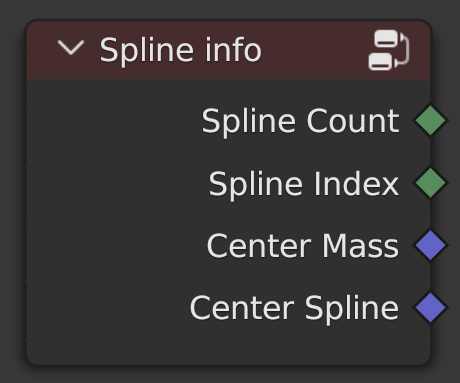
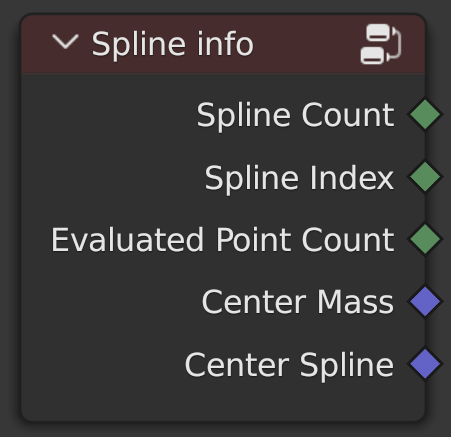
more fillin for curve-generatoe nodes

diff --git a/my-website/docs/curve/generator/loft-curves.md b/my-website/docs/curve/generator/loft-curves.md
@@ -1,19 +1,164 @@
 ---
 sidebar_position: 4
 title: Loft Curves
-description: This node generates a mesh structure across curves; "lofting" a mesh grid across curves.
+description: This node generates a mesh grid structure across curves; "lofting" a mesh grid across curves.
 tags:
   - Cuve
   - Generator
 ---
+
+import Tabs from '@theme/Tabs';
+import TabItem from '@theme/TabItem';
+
 <!-- Node Image -->
 <div>
 <img  width="30%" src="/img/docs/loft_curves.png" alt="Smiley face" className="floatme"/>
 
  ### Loft Curves  
-This node generates a mesh structure across curves; "lofting" a mesh across curves.
+This node generates a mesh grid structure across curves; "lofting" a mesh across curves.
   
 <!-- Blank Space after imge+description -->
 <img  width="100%" height="0%" src="/img/blank.png" alt="blank"/>  
+</div>
+
+# Inputs
+<div class="md-indent">
+
+## Curve
+<div class="md-indent">
+
+_**Type -** Geometry-Curve_.  
+
+</div>
+
+## X Resolution
+<div class="md-indent">
+
+<Tabs  groupId="fast-slow">
+<TabItem value="fast" label="Fast">
+
+_**Type -** Integer, **Domain -** Static_.  
+.
+</TabItem>
+<TabItem value="slow" label="Slow">
+
+_**Type -** Integer, **Domain -** [Group Index](#group-index)_.  
+.
+</TabItem>  
+</Tabs>
+  
+
+</div>
+
+## Y Resolution
+<div class="md-indent">
+<Tabs groupId="fast-slow">
+<TabItem value="fast" label="Fast">
+
+_**Type -** Integer, **Domain -** Static_.  
+.
+
+
+</TabItem>
+<TabItem value="slow" label="Slow">
+
+_**Type -** Integer, **Domain -** [Group Index](#group-index)_.  
+.
+
+</TabItem>
+</Tabs>
+</div>
+
+## X: Stick to Curve
+<div class="md-indent">
+
+_**Type -** Boolean, **Domain -** Spline_.  
+.
+
+</div>
+
+## Y: Stick to Curve
+<div class="md-indent">
+
+_**Type -** Boolean, **Domain -** **(fix?)** Point_.  
+.
+
+</div>
+
+## X: Factor
+<div class="md-indent">
+
+_**Type -** Float, **Domain -** Point_.  
+.
+
+</div>
+
+## Y: Factor
+<div class="md-indent">
+
+_**Type -** Float, **Domain -** Point_.  
+.
+
+</div>
+
+
+## Spline Order Weight
+<div class="md-indent">
+
+_**Type -** Float, **Domain -** Spline_.  
+.
+
+</div>
+
+## Offset Start Point
+<div class="md-indent">
+
+_**Type -** Integer, **Domain -** Spline_.  
+.
+
+</div>
+
+## Slide
+<div class="md-indent">
+
+_**Type -** Float, **Domain -** Spline_.  
+.
+
+</div>
+
+
+## Group Index
+<div class="md-indent">
+
+ _**Type -** Integer, **Domain -** Spline_.  
+. 
+
+</div>
+
+
+## Interpolation:
+<div class="md-indent">
+
+ _**Type -** Integer, **Domain -** **(fix)** Spline_.  
+
+ 0. 
+ 1. 
+ 2. 
+ 3. 
+
+</div>
+</div>
+
+# Outputs
+<div class="md-indent">
+
+## Mesh
+<div class="md-indent">
+
+_**Type -** Geometry-Mesh_.  
+
+> indices 
+
+</div>
 </div>
 

diff --git a/my-website/docs/curve/utilities/spline-coordinates.md b/my-website/docs/curve/utilities/spline-coordinates.md
@@ -23,29 +23,34 @@ This node gives the local Coordinates from your geometry to the inputted spline 
 ## Curve
 <div class="md-indent">
 
-_**Type -** Geometry-Curve_.
+_**Type -** Geometry-Curve_.  
+The curve (/ splines) that you're sampling the [outputs](#outputs) from.
 </div>
 </div>
 
-# outputs
+# Outputs
 <div class="md-indent">
 
 ## Spline Coordinates
 <div class="md-indent">
 
-_**Type -** Vector, **Domain -** Point_.
+_**Type -** Vector, **Domain -** Point_.  
+The local [object] coordinates relative to the [curve](#curve) as if the startpoint is (0,0,0) and conforms to the curve (along the Tangent is Z, along the Normal is X, and along Normal-Tangent is Y). For example if a point is 1 m away from the [curve](#curve) along the normal it will have an X of 1, if it is 1 m along the [curve](#curve) (it has a length of 1) it will have a Z of 1 etc.
+
 </div>
 
 ## Radius
 <div class="md-indent">
 
-_**Type -** Float, **Domain -** Point_.
+_**Type -** Float, **Domain -** Point_.  
+The radius of the points on the [curve](#curve) closest to points of whatever the output is plugged into.
 </div>
 
 ## Spline Index
 <div class="md-indent">
 
-_**Type -** Integer, **Domain -** Point_.
+_**Type -** Integer, **Domain -** Point_.  
+The spline index of the points on the [curve](#curve) closest to points of whatever the output is plugged into.
 </div>
 
 </div>

diff --git a/my-website/docs/curve/generator/curve-to-mesh-+.md b/my-website/docs/curve/generator/curve-to-mesh-+.md
@@ -65,7 +65,8 @@ Fills / adds caps to the ends of the non-cyclic generated mesh's opened ends ([s
 
 _**Type -** Geometry-Mesh_.  
 Outputs the Generated geometry.
-> Indices will be new because there is more geometry, but they will be ordered. `Y * length(X) + X = Index.` when [spline parameter - index](https://docs.blender.org/manual/en/latest/modeling/geometry_nodes/curve/spline_parameter.html#:~:text=of%20the%20spline.-,Index,%2C%20which%20also%20counts%20the%20control%20points%20in%20all%20previous%20splines.,-Examples) of [curve](#curve) is Y, and of [curve profile](#curve-profile) is X. 'length(X)' is the [curve profile](#curve-profile)'s evaluated point count.
+> Indices will be new because there is more geometry, but they will be ordered.   
+( `Y * length(X) + X + (I + 1) = Index.` when [spline parameter - index](https://docs.blender.org/manual/en/latest/modeling/geometry_nodes/curve/spline_parameter.html#:~:text=of%20the%20spline.-,Index,%2C%20which%20also%20counts%20the%20control%20points%20in%20all%20previous%20splines.,-Examples) of [curve](#curve) is `Y`, and of [curve profile](#curve-profile) is `X`. `length(X)` is the [curve profile](#curve-profile)'s evaluated point count. `I` is the last index of the previous meshed spline, if no previous spline -1. )
 
 </div>
 

diff --git a/my-website/docs/curve/generator/fill-splines-2d.md b/my-website/docs/curve/generator/fill-splines-2d.md
@@ -17,3 +17,41 @@ This node allows you to Fill your curves without combining curve when you don't 
 <img  width="100%" height="0%" src="/img/blank.png" alt="blank"/>  
 </div>
 
+# Inputs
+<div class="md-indent">
+
+## Curve
+<div class="md-indent">
+
+_**Type -** Geometry-Curve_.  
+The curves that will be filled.
+</div>
+
+## Group Index
+<div class="md-indent">
+
+ _**Type -** Boolean, **Domain -** Spline_.  
+If you want to have some splines filled together by choice of group index _True_ (aka. turns on [Group Index](#group-index-1) ↓).
+</div>
+
+## Group Index
+<div class="md-indent">
+
+ _**Type -** Integer, **Domain -** Spline_.  
+Input an integer ID that you want to have splines sharing the same number filled together.
+</div>
+
+</div>
+
+# Outputs
+<div class="md-indent">
+
+## Mesh
+<div class="md-indent">
+
+_**Type -** Geometry-Mesh_.  
+Outputs faces; fills each spline with a face.
+>  Vertices indices are the same as curve points [evaluated](https://docs.blender.org/manual/en/latest/modeling/geometry_nodes/curve/resample_curve.html#:~:text=Evaluated,for%20poly%20splines.). Faces indices, if all filled separately ([Group Index](#group-index) = False) are the same as spline index; If not, then the faces indices may differ.
+
+</div>
+</div>

diff --git a/my-website/docs/curve/info/vector-segments-in-spline.md b/my-website/docs/curve/info/vector-segments-in-spline.md
@@ -1,0 +1,31 @@
+---
+sidebar_position: 7
+title: Vector Segments in Spline
+description: The amount of vector segments in a spline.
+tags:
+  - Cuve
+  - Info
+  - field
+---
+<!-- Node Image -->
+<div>
+<img  width="30%" src="/img/docs/vector_segments_in_spline.png" alt="Smiley face" className="floatme"/>
+
+### Vector Segments in Spline
+The amount of vector segments [where 2 neighboring point have vector handles pointing towards each other] in a spline.
+   
+<!-- Blank Space after imge+description -->
+<img  width="100%" height="0%" src="/img/blank.png" alt="blank"/>  
+</div>
+
+# Outputs
+<div class="md-indent">
+
+## Count
+<div class="md-indent">
+
+_**Type -** Float, **Domain -** Point_.  
+The amount of vector segments [where 2 neighboring point have vector handles pointing towards each other] there are per spline.
+
+</div>
+</div>

diff --git a/my-website/docs/curve/generator/fill-splines-3d.md b/my-website/docs/curve/generator/fill-splines-3d.md
@@ -17,3 +17,26 @@ This node allows you to fill curves in 3D space.
 <img  width="100%" height="0%" src="/img/blank.png" alt="blank"/>  
 </div>
 
+# Inputs
+<div class="md-indent">
+
+## Curve
+<div class="md-indent">
+
+_**Type -** Geometry-Curve_.  
+The curves that will be filled.
+</div>
+</div>
+
+# Outputs
+<div class="md-indent">
+
+## Mesh
+<div class="md-indent">
+
+_**Type -** Geometry-Mesh_.  
+Outputs faces; fills each spline with a face.
+> Vertices indices are the same as curve points [evaluated](https://docs.blender.org/manual/en/latest/modeling/geometry_nodes/curve/resample_curve.html#:~:text=Evaluated,for%20poly%20splines.). Faces indices are the same as spline index.
+
+</div>
+</div>

diff --git a/my-website/docs/curve/info/spline-info.md b/my-website/docs/curve/info/spline-info.md
@@ -36,6 +36,13 @@ _**Type -** Integer, **Domain -** Spline_.
 The splines index.
 </div>
 
+## Evaluated Point Count
+<div class="md-indent">
+
+_**Type -** Integer, **Domain -** Spline_.  
+The Evaluated point count per spline; meaning the point-count including the imaginary topology that becomes real when [resampled _Evaluated_.](https://docs.blender.org/manual/en/latest/modeling/geometry_nodes/curve/resample_curve.html#:~:text=Evaluated,for%20poly%20splines.)
+</div>
+
 ## Center Mass
 <div class="md-indent">
 
